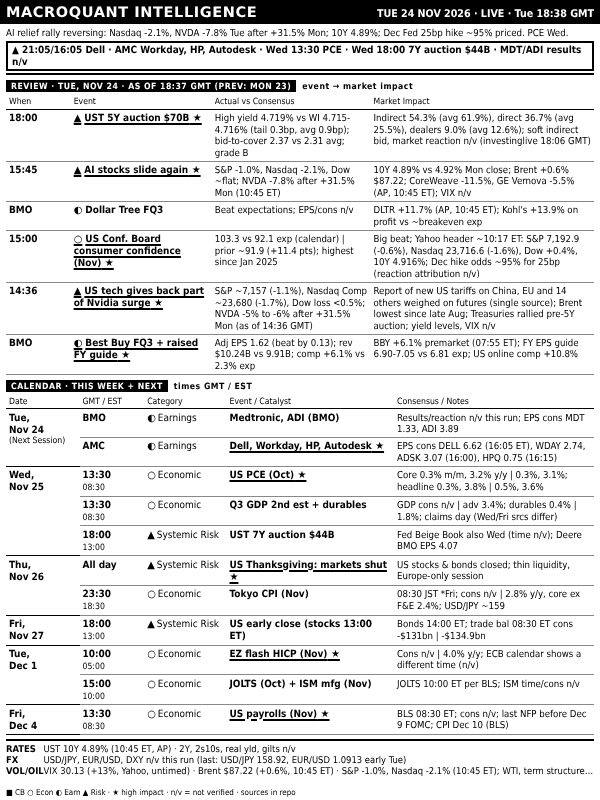
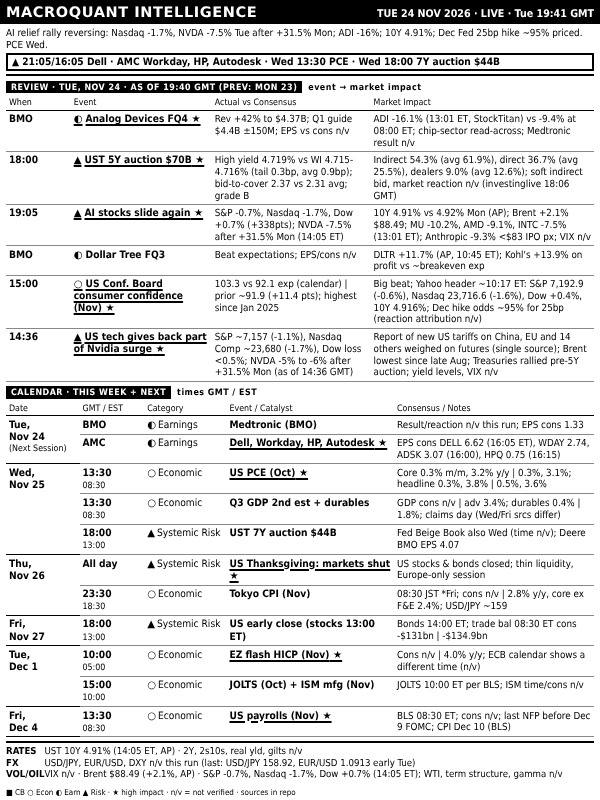
dashboard: TUE 24 NOV 2026 LIVE 19:41
Claude-Session: https://claude.ai/code/session_016SJqa6JkTduTXQ8wLXt2NN

diff --git a/out/dashboard.html b/out/dashboard.html
@@ -38,12 +38,12 @@ table.bd{border-collapse:collapse;width:100%;table-layout:fixed;margin-top:1px}
 </style></head><body>
 <div id="root">
  <div class="hdr"><span class="t">MACROQUANT INTELLIGENCE</span>
-  <span class="r">TUE 24 NOV 2026 · LIVE · Tue 18:38 GMT</span></div>
- <div class="ban"><div class="rg">AI relief rally reversing: Nasdaq -2.1%, NVDA -7.8% Tue after +31.5% Mon; 10Y 4.89%; Dec Fed 25bp hike ~95% priced. PCE Wed.</div><div class="al">▲ 21:05/16:05 Dell · AMC Workday, HP, Autodesk · Wed 13:30 PCE · Wed 18:00 7Y auction $44B · MDT/ADI results n/v</div></div>
- <div class="sl"><span>REVIEW · TUE, NOV 24 · AS OF 18:37 GMT (PREV: MON 23)</span>event → market impact</div><table class="bd rv"><colgroup><col style="width:11%"><col style="width:24%"><col style="width:27%"><col></colgroup><tr><th>When</th><th>Event</th><th>Actual vs Consensus</th><th>Market Impact</th></tr><tr class="h"><td class="tm"><b>18:00</b></td><td class="ev"><i>▲</i>UST 5Y auction $70B</td><td class="ac">High yield 4.719% vs WI 4.715-4.716% (tail 0.3bp, avg 0.9bp); bid-to-cover 2.37 vs 2.31 avg; grade B</td><td class="nt">Indirect 54.3% (avg 61.9%), direct 36.7% (avg 25.5%), dealers 9.0% (avg 12.6%); soft indirect bid, market reaction n/v (investinglive 18:06 GMT)</td></tr><tr class="h"><td class="tm"><b>15:45</b></td><td class="ev"><i>▲</i>AI stocks slide again</td><td class="ac">S&amp;P -1.0%, Nasdaq -2.1%, Dow ~flat; NVDA -7.8% after +31.5% Mon (10:45 ET)</td><td class="nt">10Y 4.89% vs 4.92% Mon close; Brent +0.6% $87.22; CoreWeave -11.5%, GE Vernova -5.5% (AP, 10:45 ET); VIX n/v</td></tr><tr><td class="tm"><b>BMO</b></td><td class="ev"><i>◐</i>Dollar Tree FQ3</td><td class="ac">Beat expectations; EPS/cons n/v</td><td class="nt">DLTR +11.7% (AP, 10:45 ET); Kohl's +13.9% on profit vs ~breakeven exp</td></tr><tr class="h"><td class="tm"><b>15:00</b></td><td class="ev"><i>○</i>US Conf. Board consumer confidence (Nov)</td><td class="ac">103.3 vs 92.1 exp (calendar) | prior ~91.9 (+11.4 pts); highest since Jan 2025</td><td class="nt">Big beat; Yahoo header ~10:17 ET: S&amp;P 7,192.9 (-0.6%), Nasdaq 23,716.6 (-1.6%), Dow +0.4%, 10Y 4.916%; Dec hike odds ~95% for 25bp (reaction attribution n/v)</td></tr><tr class="h"><td class="tm"><b>14:36</b></td><td class="ev"><i>▲</i>US tech gives back part of Nvidia surge</td><td class="ac">S&amp;P ~7,157 (-1.1%), Nasdaq Comp ~23,680 (-1.7%), Dow loss &lt;0.5%; NVDA -5% to -6% after +31.5% Mon (as of 14:36 GMT)</td><td class="nt">Report of new US tariffs on China, EU and 14 others weighed on futures (single source); Brent lowest since late Aug; Treasuries rallied pre-5Y auction; yield levels, VIX n/v</td></tr><tr class="h"><td class="tm"><b>BMO</b></td><td class="ev"><i>◐</i>Best Buy FQ3 + raised FY guide</td><td class="ac">Adj EPS 1.62 (beat by 0.13); rev $10.24B vs 9.91B; comp +6.1% vs 2.3% exp</td><td class="nt">BBY +6.1% premarket (07:55 ET); FY EPS guide 6.90-7.05 vs 6.81 exp; US online comp +10.8%</td></tr></table>
+  <span class="r">TUE 24 NOV 2026 · LIVE · Tue 19:41 GMT</span></div>
+ <div class="ban"><div class="rg">AI relief rally reversing: Nasdaq -1.7%, NVDA -7.5% Tue after +31.5% Mon; ADI -16%; 10Y 4.91%; Dec Fed 25bp hike ~95% priced. PCE Wed.</div><div class="al">▲ 21:05/16:05 Dell · AMC Workday, HP, Autodesk · Wed 13:30 PCE · Wed 18:00 7Y auction $44B</div></div>
+ <div class="sl"><span>REVIEW · TUE, NOV 24 · AS OF 19:40 GMT (PREV: MON 23)</span>event → market impact</div><table class="bd rv"><colgroup><col style="width:11%"><col style="width:24%"><col style="width:27%"><col></colgroup><tr><th>When</th><th>Event</th><th>Actual vs Consensus</th><th>Market Impact</th></tr><tr class="h"><td class="tm"><b>BMO</b></td><td class="ev"><i>◐</i>Analog Devices FQ4</td><td class="ac">Rev +42% to $4.37B; Q1 guide $4.4B ±150M; EPS vs cons n/v</td><td class="nt">ADI -16.1% (13:01 ET, StockTitan) vs -9.4% at 08:00 ET; chip-sector read-across; Medtronic result n/v</td></tr><tr class="h"><td class="tm"><b>18:00</b></td><td class="ev"><i>▲</i>UST 5Y auction $70B</td><td class="ac">High yield 4.719% vs WI 4.715-4.716% (tail 0.3bp, avg 0.9bp); bid-to-cover 2.37 vs 2.31 avg; grade B</td><td class="nt">Indirect 54.3% (avg 61.9%), direct 36.7% (avg 25.5%), dealers 9.0% (avg 12.6%); soft indirect bid, market reaction n/v (investinglive 18:06 GMT)</td></tr><tr class="h"><td class="tm"><b>19:05</b></td><td class="ev"><i>▲</i>AI stocks slide again</td><td class="ac">S&amp;P -0.7%, Nasdaq -1.7%, Dow +0.7% (+338pts); NVDA -7.5% after +31.5% Mon (14:05 ET)</td><td class="nt">10Y 4.91% vs 4.92% Mon (AP); Brent +2.1% $88.49; MU -10.2%, AMD -9.1%, INTC -7.5% (13:01 ET); Anthropic -9.3% &lt;$83 IPO px; VIX n/v</td></tr><tr><td class="tm"><b>BMO</b></td><td class="ev"><i>◐</i>Dollar Tree FQ3</td><td class="ac">Beat expectations; EPS/cons n/v</td><td class="nt">DLTR +11.7% (AP, 10:45 ET); Kohl's +13.9% on profit vs ~breakeven exp</td></tr><tr class="h"><td class="tm"><b>15:00</b></td><td class="ev"><i>○</i>US Conf. Board consumer confidence (Nov)</td><td class="ac">103.3 vs 92.1 exp (calendar) | prior ~91.9 (+11.4 pts); highest since Jan 2025</td><td class="nt">Big beat; Yahoo header ~10:17 ET: S&amp;P 7,192.9 (-0.6%), Nasdaq 23,716.6 (-1.6%), Dow +0.4%, 10Y 4.916%; Dec hike odds ~95% for 25bp (reaction attribution n/v)</td></tr><tr class="h"><td class="tm"><b>14:36</b></td><td class="ev"><i>▲</i>US tech gives back part of Nvidia surge</td><td class="ac">S&amp;P ~7,157 (-1.1%), Nasdaq Comp ~23,680 (-1.7%), Dow loss &lt;0.5%; NVDA -5% to -6% after +31.5% Mon (as of 14:36 GMT)</td><td class="nt">Report of new US tariffs on China, EU and 14 others weighed on futures (single source); Brent lowest since late Aug; Treasuries rallied pre-5Y auction; yield levels, VIX n/v</td></tr></table>
  <div class="sl"><span>CALENDAR · THIS WEEK + NEXT</span>times GMT / EST</div>
- <table class="bd"><colgroup><col style="width:12.5%"><col style="width:11%"><col style="width:14%"><col style="width:28.5%"><col></colgroup><tr><th>Date</th><th>GMT / EST</th><th>Category</th><th>Event / Catalyst</th><th>Consensus / Notes</th></tr><tr class="g0"><td class="dt" rowspan="2">Tue,<br>Nov&nbsp;24<span class="tg">(Next Session)</span></td><td class="tm"><b>BMO</b></td><td class="ct"><i>◐</i>Earnings</td><td class="ev">Medtronic, ADI (BMO)</td><td class="nt">Results/reaction n/v this run; EPS cons MDT 1.33, ADI 3.89</td></tr><tr class="h"><td class="tm"><b>AMC</b></td><td class="ct"><i>◐</i>Earnings</td><td class="ev">Dell, Workday, HP, Autodesk</td><td class="nt">EPS cons DELL 6.62 (16:05 ET), WDAY 2.74, ADSK 3.07 (16:00), HPQ 0.75 (16:15)</td></tr><tr class="g0 h"><td class="dt" rowspan="3">Wed,<br>Nov&nbsp;25</td><td class="tm"><b>13:30</b><span>08:30</span></td><td class="ct"><i>○</i>Economic</td><td class="ev">US PCE (Oct)</td><td class="nt">Core 0.3% m/m, 3.2% y/y | 0.3%, 3.1%; headline 0.3%, 3.8% | 0.5%, 3.6%</td></tr><tr class=""><td class="tm"><b>13:30</b><span>08:30</span></td><td class="ct"><i>○</i>Economic</td><td class="ev">Q3 GDP 2nd est + durables</td><td class="nt">GDP cons n/v | adv 3.4%; durables 0.4% | 1.8%; claims day (Wed/Fri srcs differ)</td></tr><tr class=""><td class="tm"><b>18:00</b><span>13:00</span></td><td class="ct"><i>▲</i>Systemic Risk</td><td class="ev">UST 7Y auction $44B</td><td class="nt">Fed Beige Book also Wed (time n/v); Deere BMO EPS 4.07</td></tr><tr class="g0 h"><td class="dt" rowspan="2">Thu,<br>Nov&nbsp;26</td><td class="tm"><b>All day</b></td><td class="ct"><i>▲</i>Systemic Risk</td><td class="ev">US Thanksgiving: markets shut</td><td class="nt">US stocks &amp; bonds closed; thin liquidity, Europe-only session</td></tr><tr class=""><td class="tm"><b>23:30</b><span>18:30</span></td><td class="ct"><i>○</i>Economic</td><td class="ev">Tokyo CPI (Nov)</td><td class="nt">08:30 JST *Fri; cons n/v | 2.8% y/y, core ex F&amp;E 2.4%; USD/JPY ~159</td></tr><tr class="g0"><td class="dt" rowspan="1">Fri,<br>Nov&nbsp;27</td><td class="tm"><b>18:00</b><span>13:00</span></td><td class="ct"><i>▲</i>Systemic Risk</td><td class="ev">US early close (stocks 13:00 ET)</td><td class="nt">Bonds 14:00 ET; trade bal 08:30 ET cons -$131bn | -$134.9bn</td></tr><tr class="g0 h"><td class="dt" rowspan="2">Tue,<br>Dec&nbsp;1</td><td class="tm"><b>10:00</b><span>05:00</span></td><td class="ct"><i>○</i>Economic</td><td class="ev">EZ flash HICP (Nov)</td><td class="nt">Cons n/v | 4.0% y/y; ECB calendar shows a different time (n/v)</td></tr><tr class=""><td class="tm"><b>15:00</b><span>10:00</span></td><td class="ct"><i>○</i>Economic</td><td class="ev">JOLTS (Oct) + ISM mfg (Nov)</td><td class="nt">JOLTS 10:00 ET per BLS; ISM time/cons n/v</td></tr><tr class="g0 h"><td class="dt" rowspan="1">Fri,<br>Dec&nbsp;4</td><td class="tm"><b>13:30</b><span>08:30</span></td><td class="ct"><i>○</i>Economic</td><td class="ev">US payrolls (Nov)</td><td class="nt">BLS 08:30 ET; cons n/v; last NFP before Dec 9 FOMC; CPI Dec 10 (BLS)</td></tr></table>
- <div class="lv"><div><b>RATES</b>UST 10Y 4.89% (10:45 ET, AP) · 2Y, 2s10s, real yld, gilts n/v</div><div><b>FX</b>USD/JPY, EUR/USD, DXY n/v this run (last: USD/JPY 158.92, EUR/USD 1.0913 early Tue)</div><div><b>VOL/OIL</b>VIX 30.13 (+13%, Yahoo, untimed) · Brent $87.22 (+0.6%, 10:45 ET) · S&amp;P -1.0%, Nasdaq -2.1% (10:45 ET); WTI, term structure, gamma n/v</div></div>
+ <table class="bd"><colgroup><col style="width:12.5%"><col style="width:11%"><col style="width:14%"><col style="width:28.5%"><col></colgroup><tr><th>Date</th><th>GMT / EST</th><th>Category</th><th>Event / Catalyst</th><th>Consensus / Notes</th></tr><tr class="g0"><td class="dt" rowspan="2">Tue,<br>Nov&nbsp;24<span class="tg">(Next Session)</span></td><td class="tm"><b>BMO</b></td><td class="ct"><i>◐</i>Earnings</td><td class="ev">Medtronic (BMO)</td><td class="nt">Result/reaction n/v this run; EPS cons 1.33</td></tr><tr class="h"><td class="tm"><b>AMC</b></td><td class="ct"><i>◐</i>Earnings</td><td class="ev">Dell, Workday, HP, Autodesk</td><td class="nt">EPS cons DELL 6.62 (16:05 ET), WDAY 2.74, ADSK 3.07 (16:00), HPQ 0.75 (16:15)</td></tr><tr class="g0 h"><td class="dt" rowspan="3">Wed,<br>Nov&nbsp;25</td><td class="tm"><b>13:30</b><span>08:30</span></td><td class="ct"><i>○</i>Economic</td><td class="ev">US PCE (Oct)</td><td class="nt">Core 0.3% m/m, 3.2% y/y | 0.3%, 3.1%; headline 0.3%, 3.8% | 0.5%, 3.6%</td></tr><tr class=""><td class="tm"><b>13:30</b><span>08:30</span></td><td class="ct"><i>○</i>Economic</td><td class="ev">Q3 GDP 2nd est + durables</td><td class="nt">GDP cons n/v | adv 3.4%; durables 0.4% | 1.8%; claims day (Wed/Fri srcs differ)</td></tr><tr class=""><td class="tm"><b>18:00</b><span>13:00</span></td><td class="ct"><i>▲</i>Systemic Risk</td><td class="ev">UST 7Y auction $44B</td><td class="nt">Fed Beige Book also Wed (time n/v); Deere BMO EPS 4.07</td></tr><tr class="g0 h"><td class="dt" rowspan="2">Thu,<br>Nov&nbsp;26</td><td class="tm"><b>All day</b></td><td class="ct"><i>▲</i>Systemic Risk</td><td class="ev">US Thanksgiving: markets shut</td><td class="nt">US stocks &amp; bonds closed; thin liquidity, Europe-only session</td></tr><tr class=""><td class="tm"><b>23:30</b><span>18:30</span></td><td class="ct"><i>○</i>Economic</td><td class="ev">Tokyo CPI (Nov)</td><td class="nt">08:30 JST *Fri; cons n/v | 2.8% y/y, core ex F&amp;E 2.4%; USD/JPY ~159</td></tr><tr class="g0"><td class="dt" rowspan="1">Fri,<br>Nov&nbsp;27</td><td class="tm"><b>18:00</b><span>13:00</span></td><td class="ct"><i>▲</i>Systemic Risk</td><td class="ev">US early close (stocks 13:00 ET)</td><td class="nt">Bonds 14:00 ET; trade bal 08:30 ET cons -$131bn | -$134.9bn</td></tr><tr class="g0 h"><td class="dt" rowspan="2">Tue,<br>Dec&nbsp;1</td><td class="tm"><b>10:00</b><span>05:00</span></td><td class="ct"><i>○</i>Economic</td><td class="ev">EZ flash HICP (Nov)</td><td class="nt">Cons n/v | 4.0% y/y; ECB calendar shows a different time (n/v)</td></tr><tr class=""><td class="tm"><b>15:00</b><span>10:00</span></td><td class="ct"><i>○</i>Economic</td><td class="ev">JOLTS (Oct) + ISM mfg (Nov)</td><td class="nt">JOLTS 10:00 ET per BLS; ISM time/cons n/v</td></tr><tr class="g0 h"><td class="dt" rowspan="1">Fri,<br>Dec&nbsp;4</td><td class="tm"><b>13:30</b><span>08:30</span></td><td class="ct"><i>○</i>Economic</td><td class="ev">US payrolls (Nov)</td><td class="nt">BLS 08:30 ET; cons n/v; last NFP before Dec 9 FOMC; CPI Dec 10 (BLS)</td></tr></table>
+ <div class="lv"><div><b>RATES</b>UST 10Y 4.91% (14:05 ET, AP) · 2Y, 2s10s, real yld, gilts n/v</div><div><b>FX</b>USD/JPY, EUR/USD, DXY n/v this run (last: USD/JPY 158.92, EUR/USD 1.0913 early Tue)</div><div><b>VOL/OIL</b>VIX n/v · Brent $88.49 (+2.1%, AP) · S&amp;P -0.7%, Nasdaq -1.7%, Dow +0.7% (14:05 ET); WTI, term structure, gamma n/v</div></div>
 </div>
 <div class="foot">■ CB ○ Econ ◐ Earn ▲ Risk · ★ high impact · n/v = not verified · sources in repo</div>
 </body></html>
